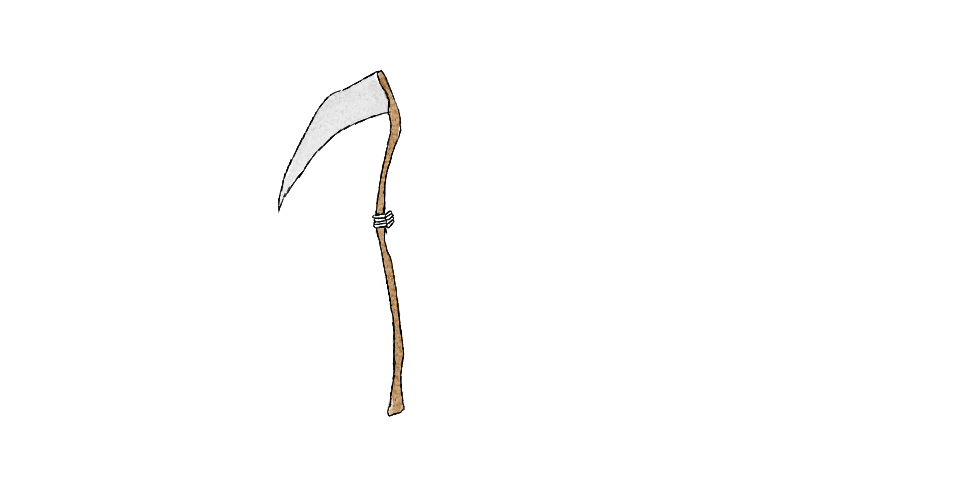
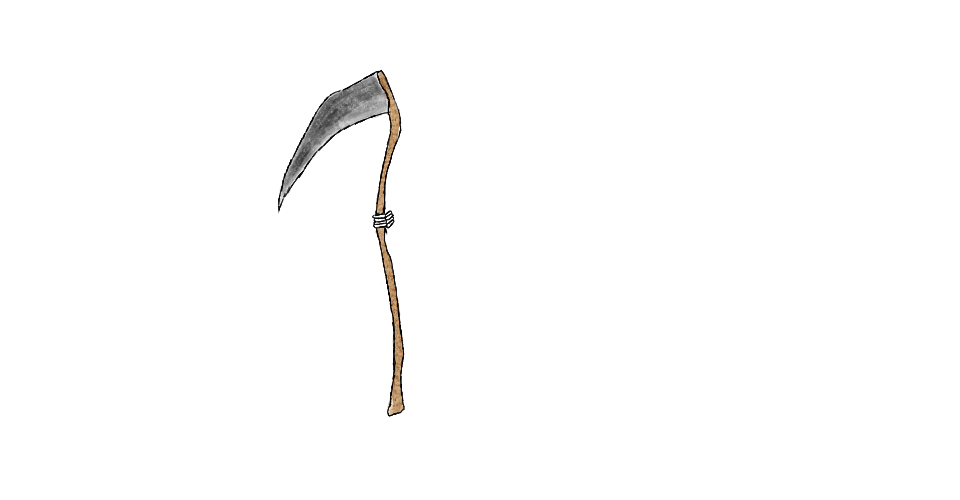
little update
image tweaks

Changed region(s): [[0.2812, 0.15, 0.4062, 0.39]]

diff --git a/README.md b/README.md
@@ -8,7 +8,7 @@ Update this file as you go along to record your progress.
 
 for this project, i wanted to visualise time with a grim reaper theme, while sketching my ideas, i wanted to incorperate themes like the grim reaper and its signature weilding the scythe, i also wanted to incorparate souls in some way. 
 
-further deveolping idea i sketeched out a grim reaper character and its holding a scythe and lantern. my idea is for the latern swaying left and right to represent the seconds on the clock. and for the minutes i designed the "minute necklace", the grim reaper will be wearing this necklace and it will show the minutes passed on the face of it. and for the hours i wanted to make the amount of souls floating around represent the hours 0 to 24 souls. the design aestehtic i was initially going for was a scarier theme but i want to make it alittle more playful by not using dark colors but a pretty chill color pallete.
+further deveolping idea i sketeched out a grim reaper character and its holding a scythe and lantern. my idea is for the latern swaying left and right to represent the seconds on the clock. and for the minutes i designed the "minute necklace", the grim reaper will be wearing this necklace and it will show the minutes passed on the face of it. and for the hours i wanted to make the amount of souls floating around represent the hours 0 to 24 souls. the design aestehtic i was initially going for was a scarier theme but i want to make it alittle more playful by not using dark colors but a pretty chill color pallete. originally the scythe was meant to have an eye that opens and looks around every hour passed but i scrapped that idea.
 
 throughout designing the images on CLIP STUDIO PAINT, i managed to get the outlines i wanted, as for the colors i liked the way the water color pen looked. i have finished designing and coloring the assets i need. 
 
@@ -25,4 +25,4 @@ the background will update every 12 hours, this is how i further developed my id
 
 the Alarm function was simply designed, when the alarm is off, the scythe is a regular scythe, when you turn on the alarm the scythe changes its form going into a more bloodier scythe, and when the alarm is going off it changes to a more angelic brigther form, the scythe also moves to the variable that i mapped.
 
-in conclusion i liked the design aesthetic  of this project and i think the execution was ok from me, although it was quite simple i think its fun to look at and if i wanted to develop this idea further i would make more things move such as the robe.
+in conclusion i liked the design aesthetic  of this project and i think the execution was ok from me, although it was quite simple i think its fun to look at and if i wanted to develop this idea further i would make more things move such as the robe. i coudlve added more elements to clearly show the time but i feel like it wouldve taken away from my minimalistic style where the only text i wanted to show was the Minute Necklace, like its some sort of magical artifact.
